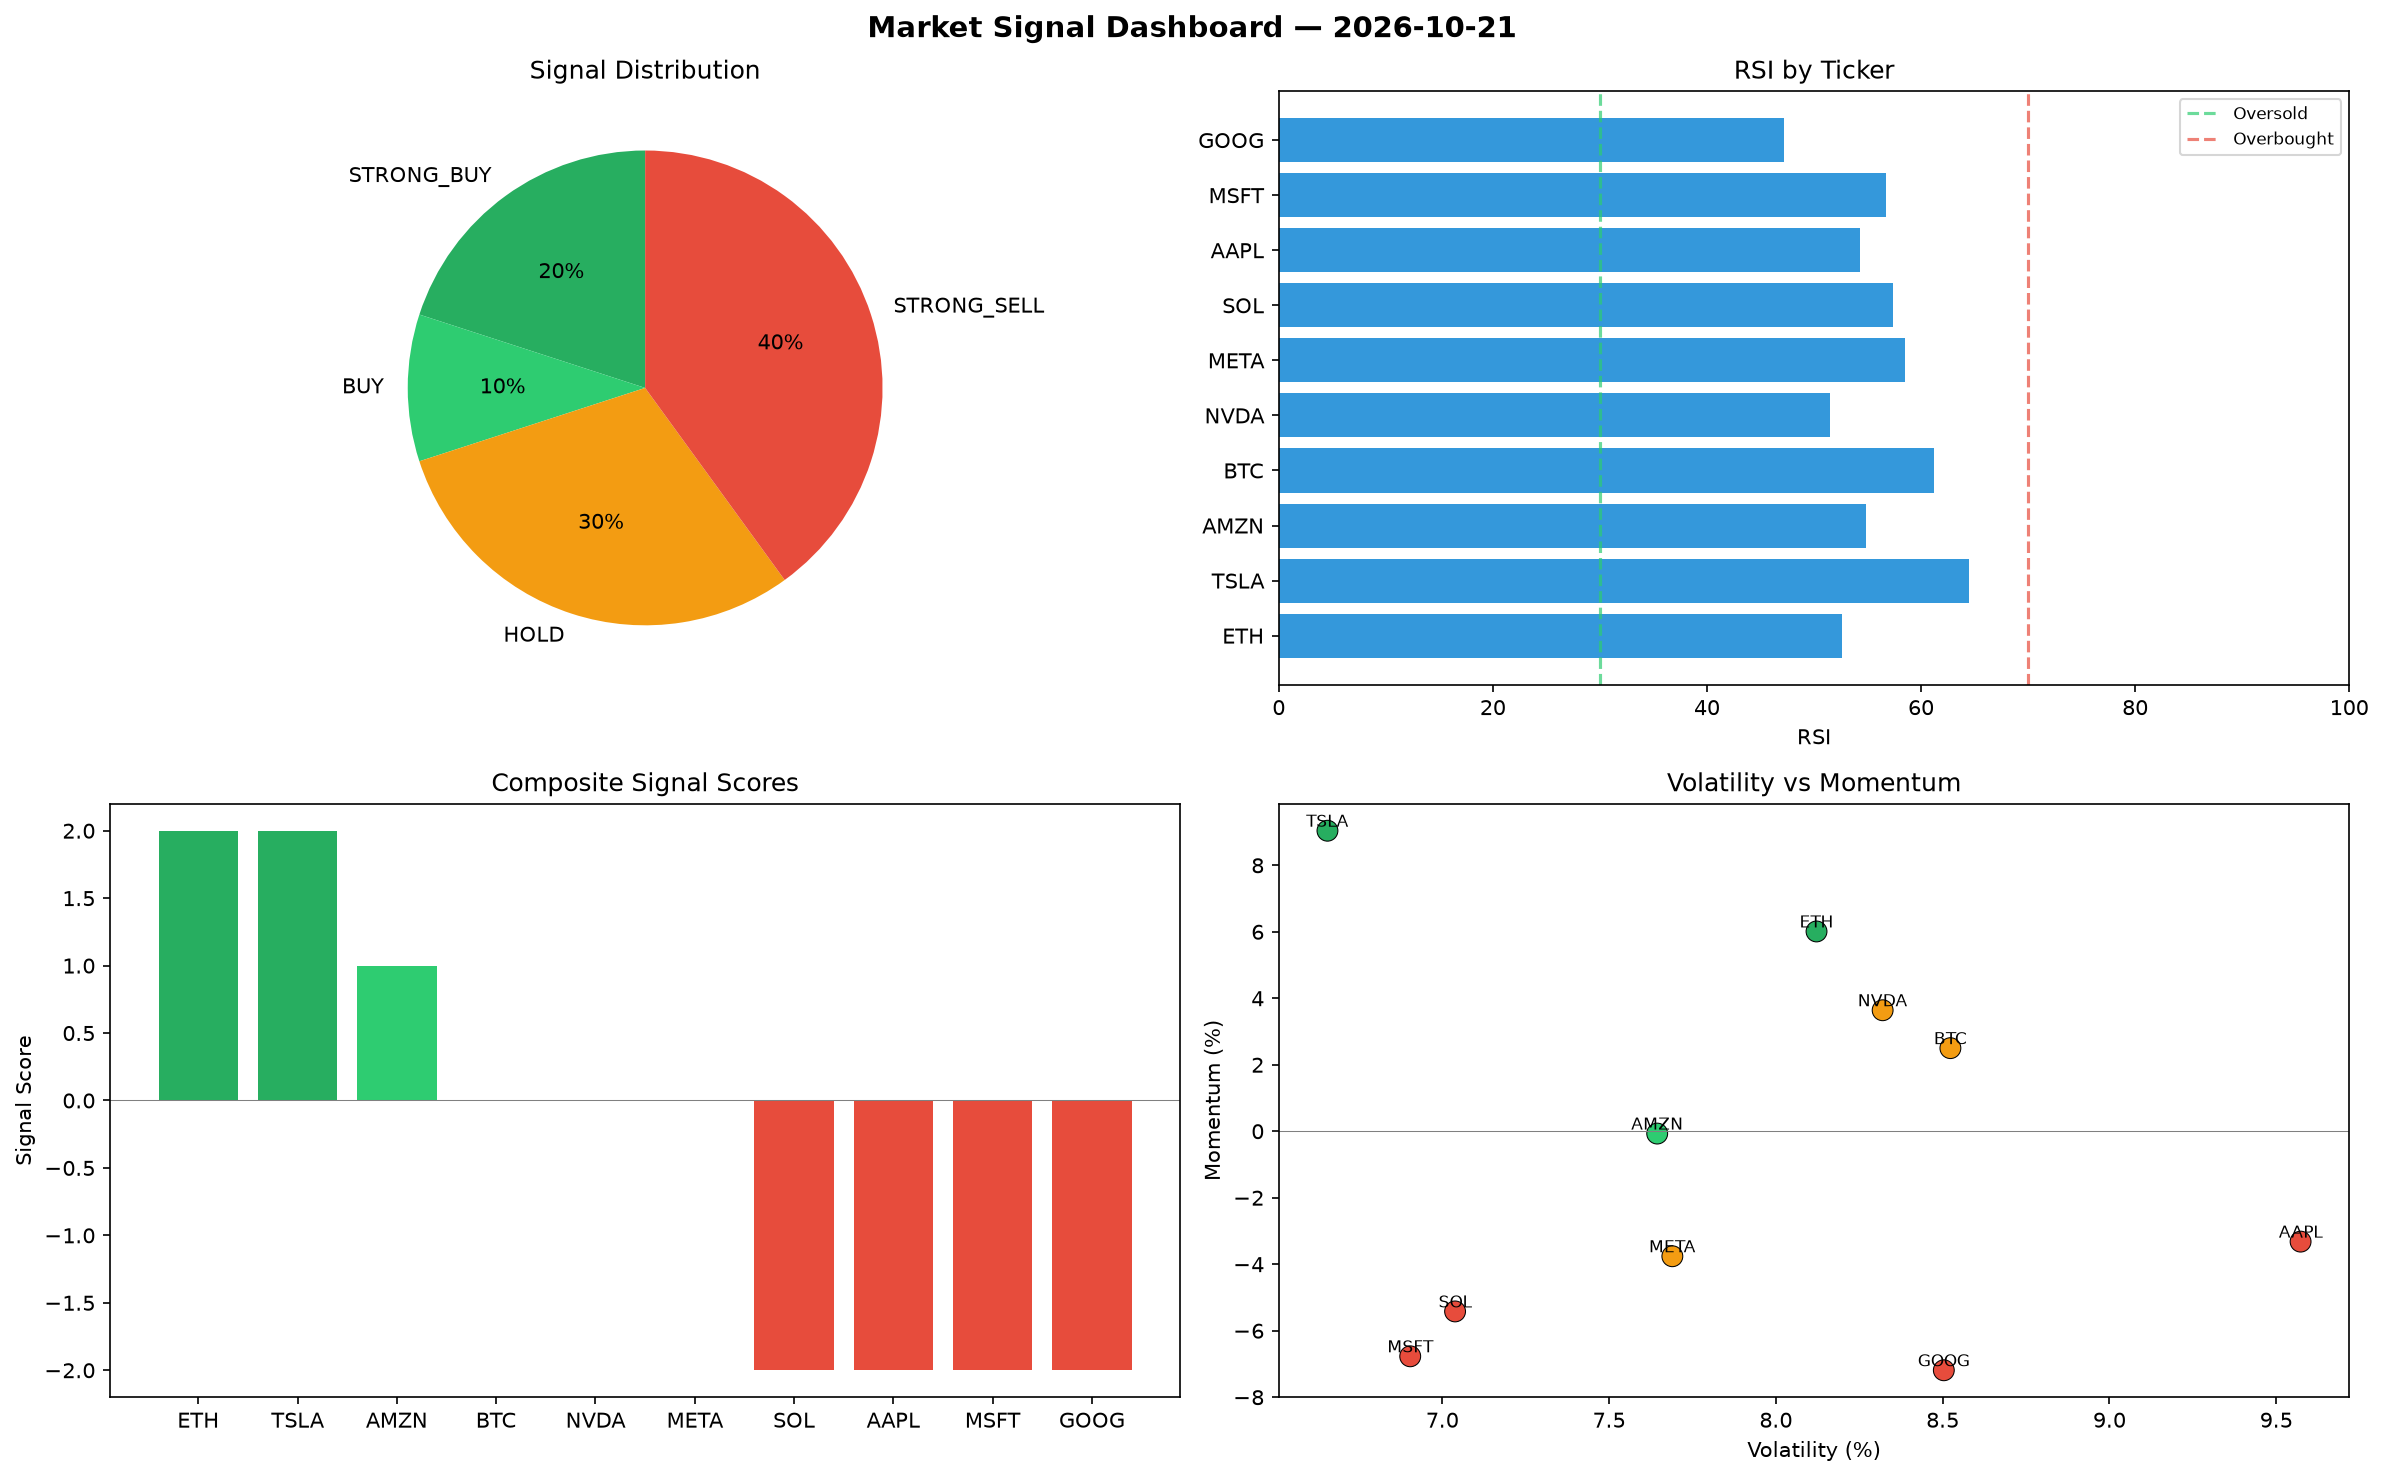
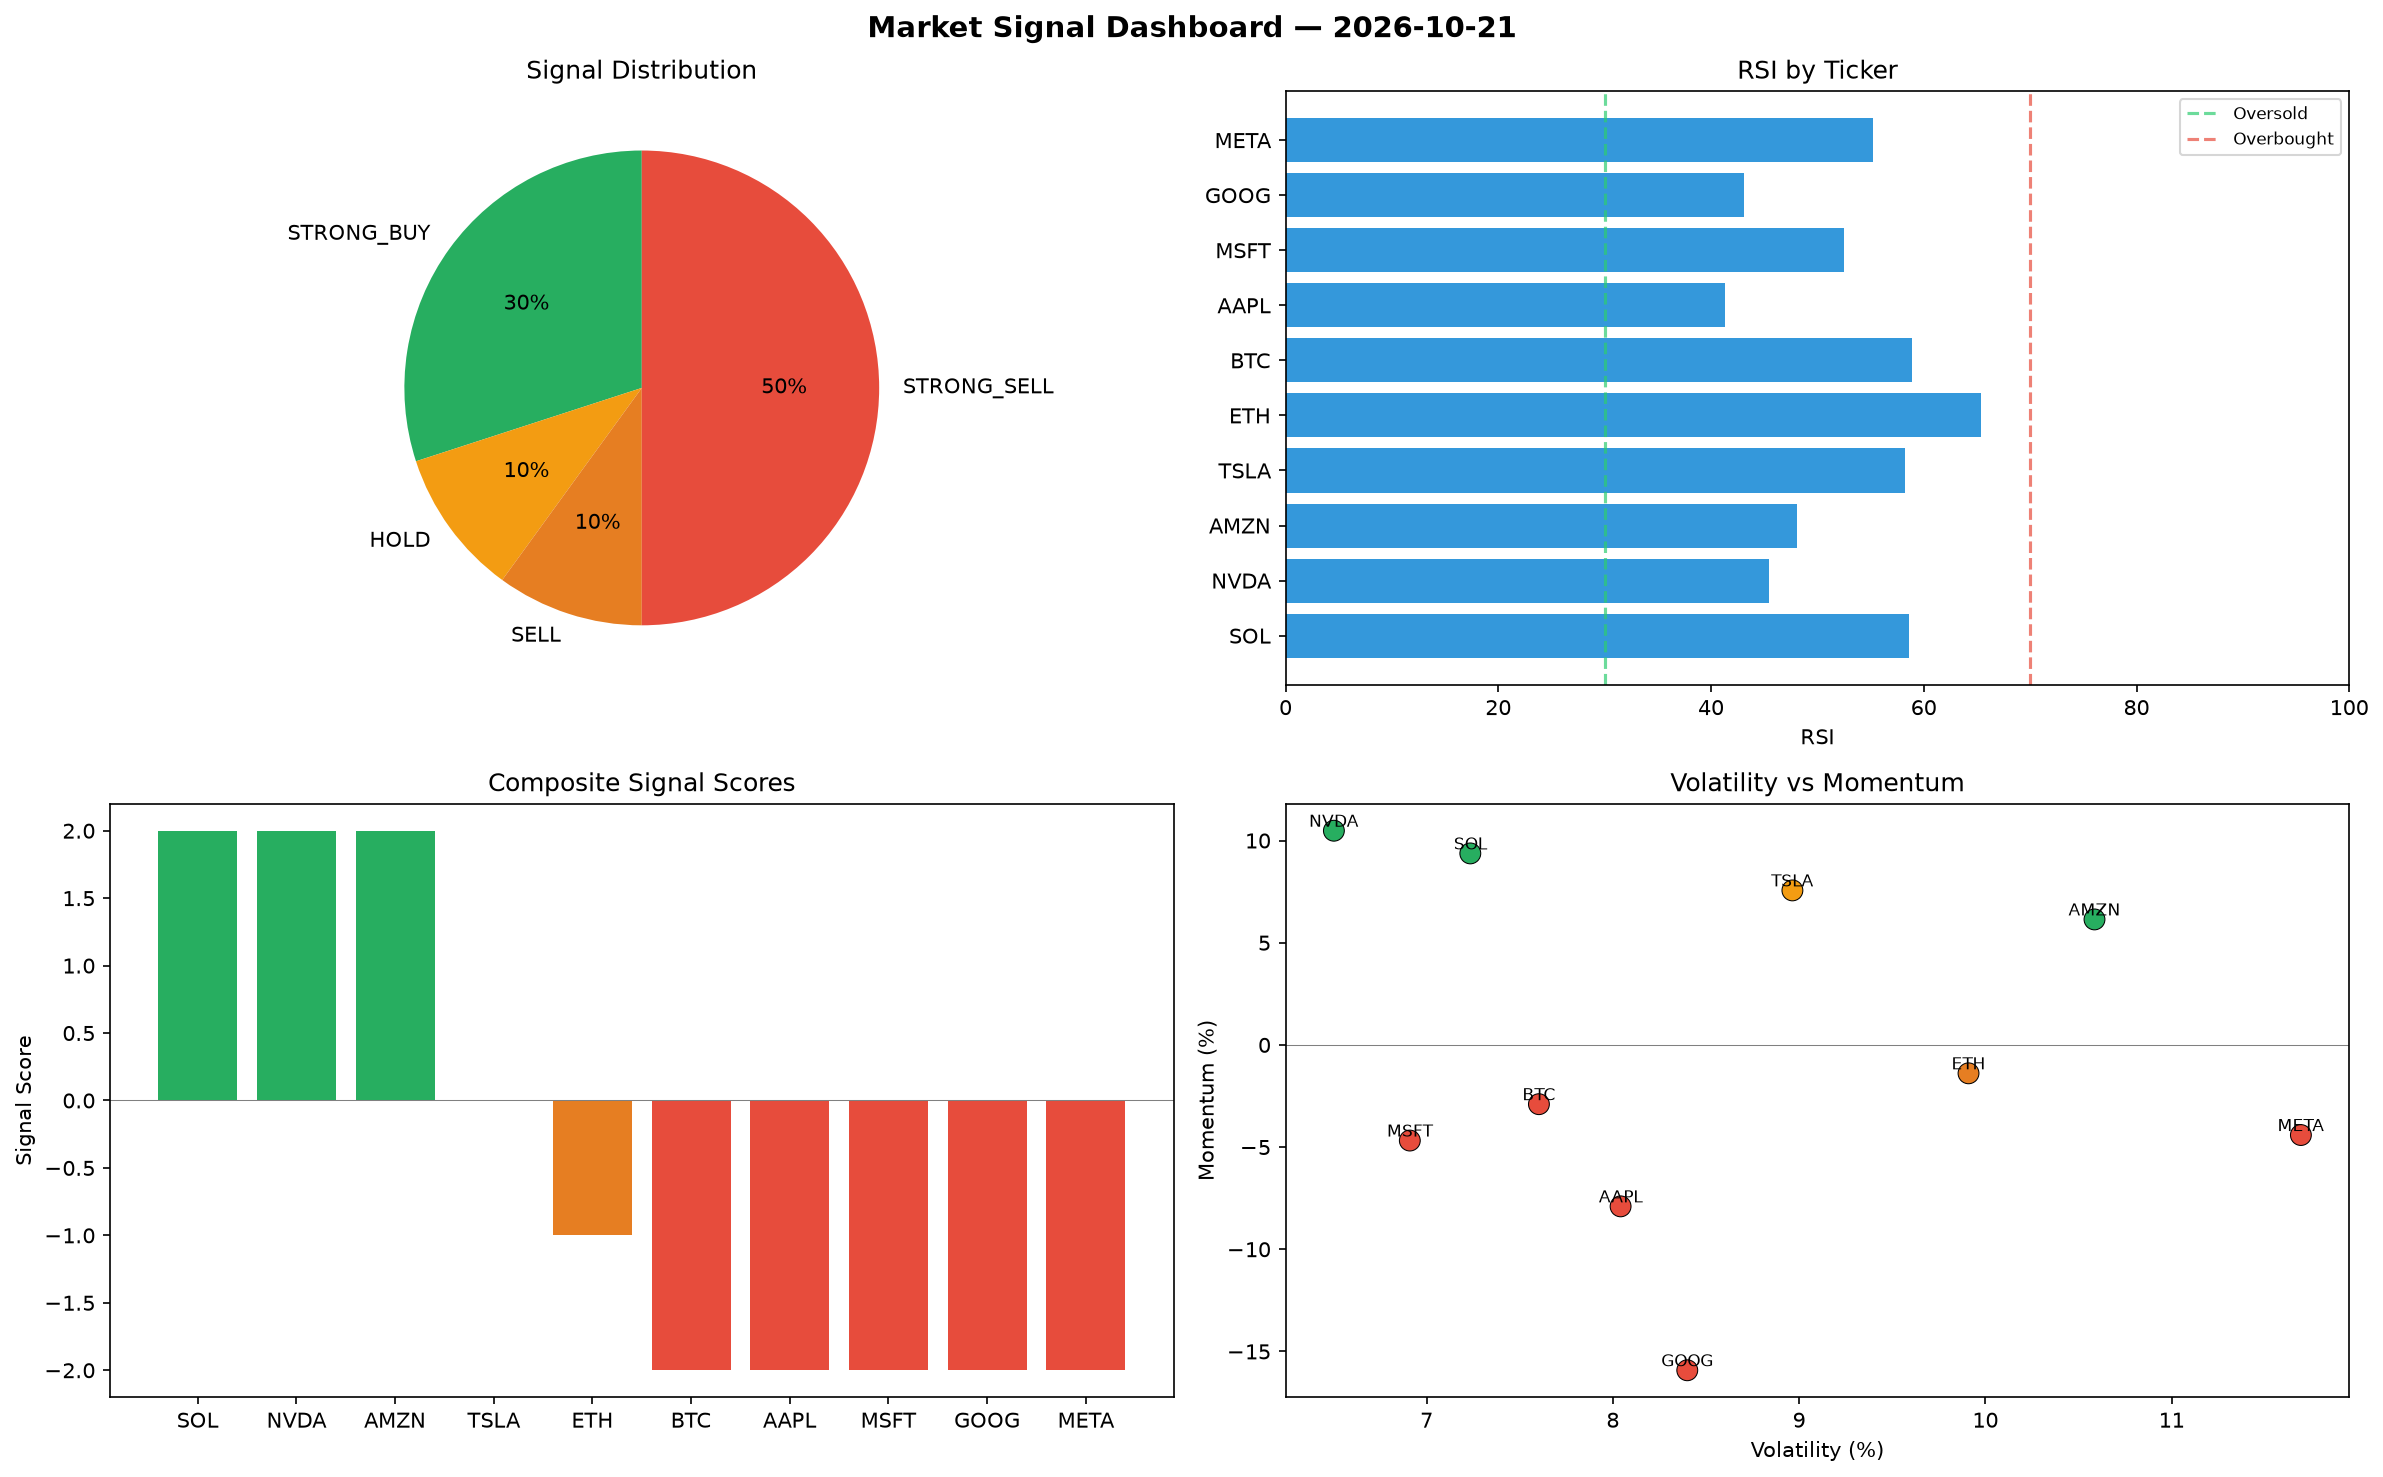
automated-bots: market signals 2026-10-21T13:59

diff --git a/logs/2026-10-21.md b/logs/2026-10-21.md
@@ -1,6 +1,6 @@
 # Market Signal Report — 2026-10-21
 
-**Run ID:** `0f861799d9` | **Buy:** 3 | **Sell:** 4 | **Hold:** 3
+**Run ID:** `cbd27d75b5` | **Buy:** 3 | **Sell:** 6 | **Hold:** 1
 
 ![Dashboard](2026-10-21_dashboard.png)
 
@@ -8,28 +8,28 @@
 
 | Ticker | Price | Signal | Score | RSI | Momentum | Confidence |
 |--------|-------|--------|-------|-----|----------|------------|
-| ETH | $1030.73 | **STRONG_BUY** | 2 | 52.63 | 0.0601 | 0.5 |
-| TSLA | $2008.58 | **STRONG_BUY** | 2 | 64.52 | 0.0904 | 0.5 |
-| AMZN | $4353.87 | **BUY** | 1 | 54.81 | -0.0007 | 0.25 |
-| BTC | $4696.82 | **HOLD** | 0 | 61.17 | 0.025 | 0.0 |
-| NVDA | $1585.66 | **HOLD** | 0 | 51.48 | 0.0364 | 0.0 |
-| META | $4178.44 | **HOLD** | 0 | 58.54 | -0.0376 | 0.0 |
-| SOL | $3260.23 | **STRONG_SELL** | -2 | 57.42 | -0.0542 | 0.5 |
-| AAPL | $3528.24 | **STRONG_SELL** | -2 | 54.34 | -0.0332 | 0.5 |
-| MSFT | $456.66 | **STRONG_SELL** | -2 | 56.69 | -0.0677 | 0.5 |
-| GOOG | $2870.98 | **STRONG_SELL** | -2 | 47.2 | -0.0719 | 0.5 |
+| SOL | $2293.58 | **STRONG_BUY** | 2 | 58.57 | 0.0937 | 0.5 |
+| NVDA | $3450.64 | **STRONG_BUY** | 2 | 45.49 | 0.1048 | 0.5 |
+| AMZN | $518.77 | **STRONG_BUY** | 2 | 48.07 | 0.0614 | 0.5 |
+| TSLA | $1372.41 | **HOLD** | 0 | 58.21 | 0.0756 | 0.0 |
+| ETH | $2872.19 | **SELL** | -1 | 65.4 | -0.0139 | 0.25 |
+| BTC | $331.66 | **STRONG_SELL** | -2 | 58.91 | -0.029 | 0.5 |
+| AAPL | $1334.68 | **STRONG_SELL** | -2 | 41.28 | -0.079 | 0.5 |
+| MSFT | $3136.57 | **STRONG_SELL** | -2 | 52.51 | -0.0468 | 0.5 |
+| GOOG | $4084.06 | **STRONG_SELL** | -2 | 43.13 | -0.1592 | 0.5 |
+| META | $2680.47 | **STRONG_SELL** | -2 | 55.27 | -0.0441 | 0.5 |
 
 ## Delta vs Yesterday
 
 | Ticker | Today | Yesterday | Price Change | Signal Changed |
 |--------|-------|-----------|-------------|----------------|
-| ETH | STRONG_BUY | HOLD | 📉 -51.42% | ⚠ YES |
-| TSLA | STRONG_BUY | HOLD | 📉 -45.77% | ⚠ YES |
-| AMZN | BUY | STRONG_SELL | 📈 145.56% | ⚠ YES |
-| BTC | HOLD | STRONG_SELL | 📈 264.88% | ⚠ YES |
-| NVDA | HOLD | STRONG_SELL | 📉 -24.97% | ⚠ YES |
-| META | HOLD | STRONG_BUY | 📈 60.29% | ⚠ YES |
-| SOL | STRONG_SELL | STRONG_SELL | 📈 34.76% | — |
-| AAPL | STRONG_SELL | BUY | 📈 67.74% | ⚠ YES |
-| MSFT | STRONG_SELL | HOLD | 📉 -78.3% | ⚠ YES |
-| GOOG | STRONG_SELL | BUY | 📉 -33.48% | ⚠ YES |
+| SOL | STRONG_BUY | STRONG_SELL | 📉 -5.2% | ⚠ YES |
+| NVDA | STRONG_BUY | STRONG_SELL | 📈 63.28% | ⚠ YES |
+| AMZN | STRONG_BUY | STRONG_SELL | 📉 -70.74% | ⚠ YES |
+| TSLA | HOLD | HOLD | 📉 -62.95% | — |
+| ETH | SELL | HOLD | 📈 35.36% | ⚠ YES |
+| BTC | STRONG_SELL | STRONG_SELL | 📉 -74.23% | — |
+| AAPL | STRONG_SELL | BUY | 📉 -36.55% | ⚠ YES |
+| MSFT | STRONG_SELL | HOLD | 📈 49.02% | ⚠ YES |
+| GOOG | STRONG_SELL | BUY | 📉 -5.38% | ⚠ YES |
+| META | STRONG_SELL | STRONG_BUY | 📈 2.83% | ⚠ YES |
